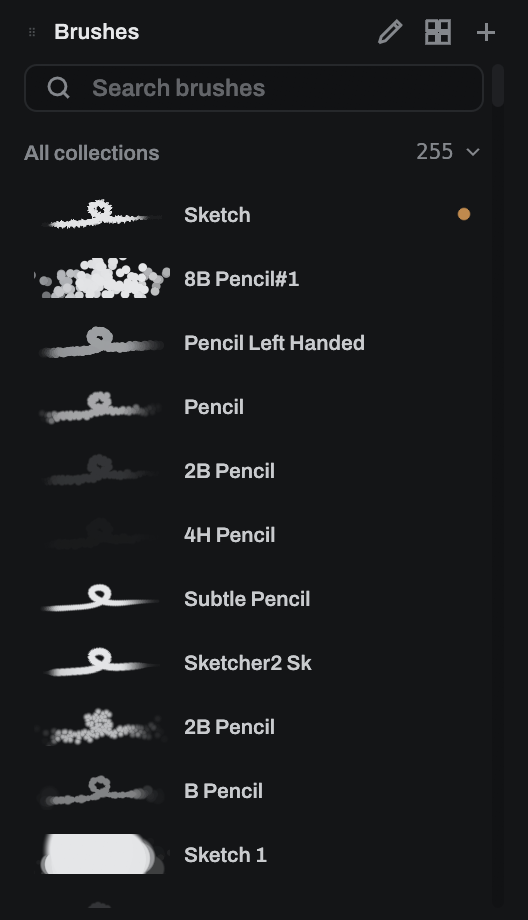
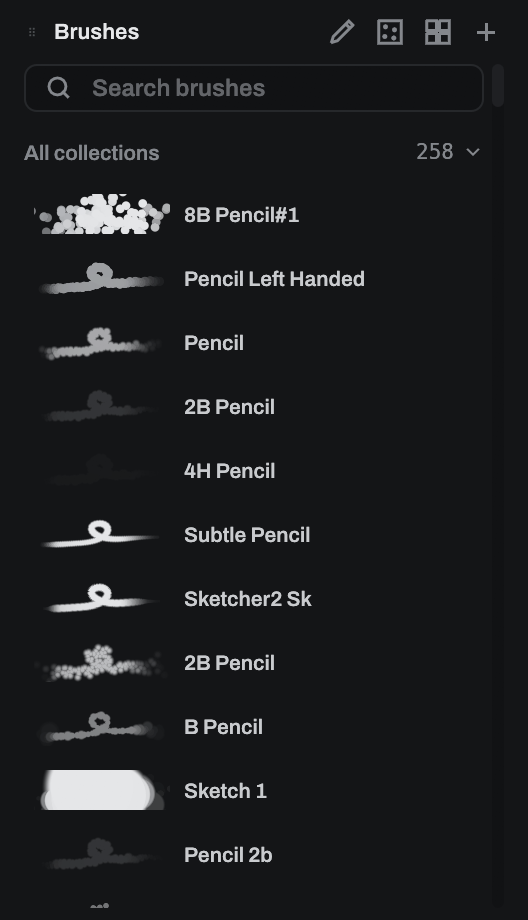
Keep the contributor's own brushes out of the README's picture
`brushes.png` is drawn by the Brushes module, and that module reads the
user's own `brushes.ron` on its first frame. So the committed picture
carried whatever the person regenerating it happened to have saved: the
count in the collection row read 274 rather than the 258 that ship, and
twenty-two rows of somebody's private collection went into the README.

That is the leak `prefs::set_config_path_label` and
`settings::stage_themes` each already close, one door over, and the fix
is the third of the same shape. `brushlib::stage_empty_library` seeds the
panel's state with a library read from a directory that is not there,
which `load_from` answers as empty and — having nothing to migrate —
writes nothing.

It also caught a mistake I had just made. I counted the presets by
grepping `assets/builtin-brushes.ron`, got 252, and "corrected" the
README's 258 down to it. 258 was right: `preset::builtin` puts
`umber_defaults`' six in front of the generated file's 252, in Rust
precisely so that regenerating the file cannot lose them. The README now
says 258 again, with the sentence naming the six restored. The picture is
what proved it, which is the argument for generating the pictures at all.

Also regenerates the other two shots, which had gone stale: the Themes
pane has gained the theme editor, and the settings footer now reads
"v0.0.6 · GPL-3.0" rather than joining the two with an em dash.

diff --git a/crates/umber-app/src/brushlib.rs b/crates/umber-app/src/brushlib.rs
@@ -266,6 +266,38 @@ fn store(ctx: &egui::Context, state: State) {
     ctx.data_mut(|d| d.insert_temp(state_id(), state));
 }
 
+/// Put an empty user library in front of [`load`], so nothing reads the disk.
+///
+/// For `docshot`, and the same door `settings::stage_themes` opens for the
+/// Themes pane. `load` would otherwise read the *user's* own `brushes.ron`, and
+/// this picture is committed: the count in the collection row would be however
+/// many brushes the person regenerating it happens to have saved, which
+/// publishes a contributor's collection in the README and makes the shot
+/// disagree with the README's own figure for what ships. It is the leak
+/// `prefs::set_config_path_label` exists to stop, two doors over.
+pub(crate) fn stage_empty_library(ctx: &egui::Context, ed: &mut Editor) {
+    // A directory that is not there reads as a library with nothing in it, and
+    // writes nothing: `load_from` only writes when it has migrated a flat file,
+    // and there is none to migrate.
+    let empty = UserLibrary::load_from(std::env::temp_dir().join("umber-docshot-no-library"))
+        .expect("an absent directory is an empty library");
+    let held = Store::Ready(Arc::new(empty));
+    let state = State {
+        index: Arc::new(Index::build(&ed.presets, made_of(&held))),
+        store: held,
+        query: String::new(),
+        scope: Scope::All,
+        browser_open: false,
+        saving: None,
+        renaming: None,
+        confirming: None,
+        creating: None,
+        drag: None,
+        notice: None,
+    };
+    store(ctx, state);
+}
+
 // ---------------------------------------------------------------------------
 // The index
 // ---------------------------------------------------------------------------

diff --git a/crates/umber-app/src/docshot.rs b/crates/umber-app/src/docshot.rs
@@ -344,6 +344,12 @@ fn panel_shot(
 ) -> Result<(PathBuf, u64, u32, u32), String> {
     let mut ed = editor();
     setup(&mut ed);
+    // The same door `settings_shot` opens for the Themes pane, and for the same
+    // reason: the Brushes module reads the *user's* own library on its first
+    // frame, so this picture would carry however many brushes the person
+    // regenerating it happens to have saved — published in the README, and
+    // disagreeing with the README's own figure for what ships.
+    crate::brushlib::stage_empty_library(&stage.ctx, &mut ed);
     let palette = ed.palette();
     let rect = Rect::from_min_size(Pos2::ZERO, field);
     let image = stage

diff --git a/README.md b/README.md
@@ -54,7 +54,7 @@ before anything is downloaded. You can turn that off on the first run, or in
 <img src="docs/images/brushes.png" alt="The Brushes module: a searchable list of
 presets, each drawing its own stroke" align="right" width="300">
 
-**252 presets ship with Umber**, grouped by what they *do*. Pencils, inks,
+**258 presets ship with Umber**, grouped by what they *do*. Pencils, inks,
 markers, charcoal, paint, watercolour, airbrush, blenders, erasers, texture,
 foliage, effects. Not by which pack they came from.
 
@@ -63,10 +63,10 @@ taper in it, so a rake, a chisel or an angle-following brush looks like what it
 is instead of like a flat bar.
 
 196 are the whole of
-[mypaint-brushes 2.0.2](https://github.com/mypaint/mypaint-brushes). The other
-56 come from CC0 and CC-BY Krita packs: 32 of those stamp a **bitmap tip**
-rather than an ellipse, and 6 paint through the author's own **paper texture**.
-Each keeps its author and licence.
+[mypaint-brushes 2.0.2](https://github.com/mypaint/mypaint-brushes). Another 56
+come from CC0 and CC-BY Krita packs: 32 of those stamp a **bitmap tip** rather
+than an ellipse, and 6 paint through the author's own **paper texture**. Six are
+Umber's own. Each keeps its author and licence.
 
 Blenders work. A smudging brush picks colour up off the canvas and carries it,
 and scrubbing back and forth blends its own wet paint. **A brush can carry its
